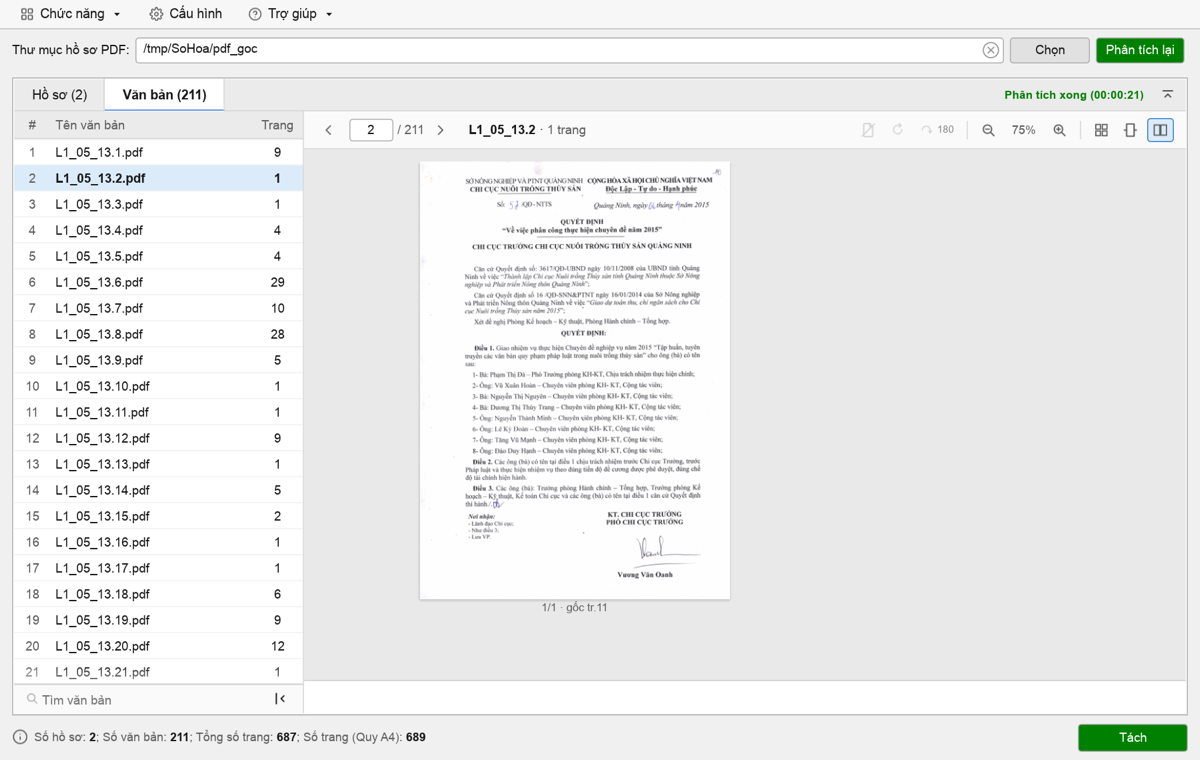
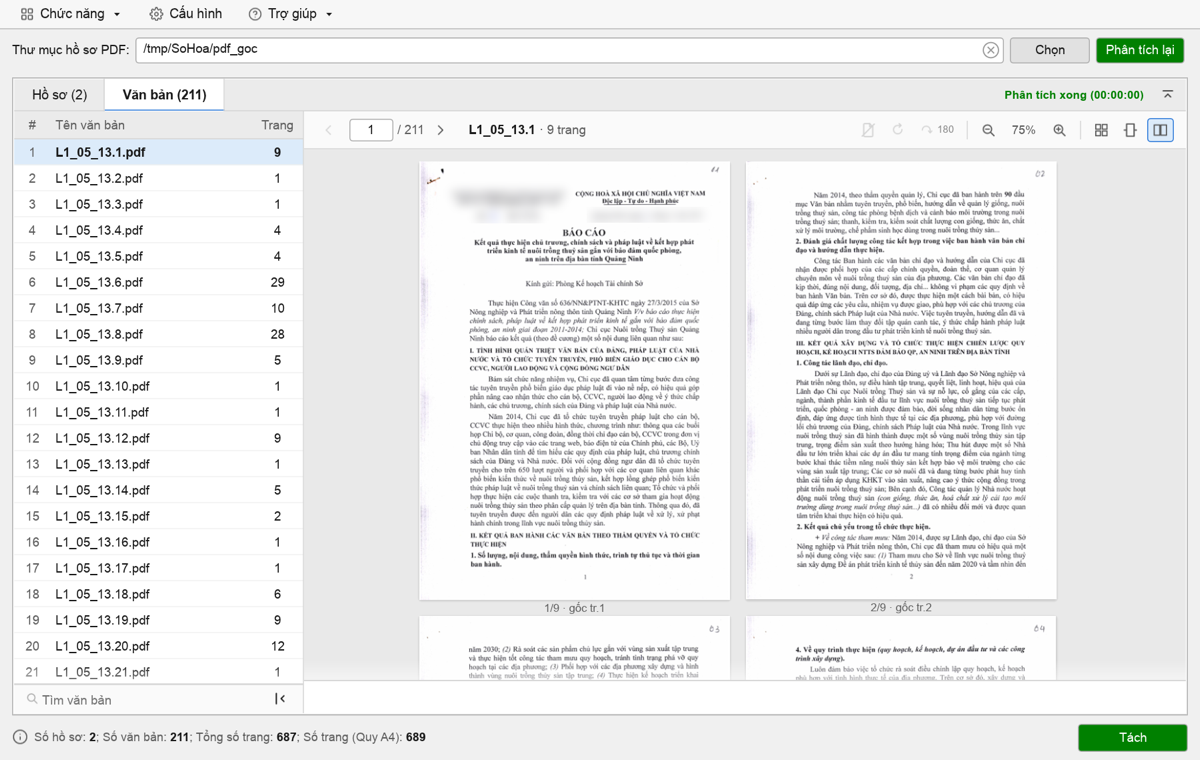
docs: ảnh Văn bản nhiều trang (làm mờ cơ quan ban hành), Cấu hình đủ 3 tab

diff --git a/dema4_rs/src/gui.rs b/dema4_rs/src/gui.rs
@@ -1950,6 +1950,12 @@ mod tests {
         harness.state_mut().hop_cau_hinh = Some(hop);
         harness.run_steps(3);
         harness.render().unwrap().save(thu_muc_anh.join("tach_4_cau_hinh_dem.png")).unwrap();
+        // Hộp Cấu hình với giá trị mặc định, đủ 3 tab (ảnh README)
+        for (ten, tab) in [("cau_hinh_dem", crate::gui_tach::hop_cau_hinh::TabCauHinh::Dem), ("cau_hinh_tach", crate::gui_tach::hop_cau_hinh::TabCauHinh::Tach), ("cau_hinh_muc_luc", crate::gui_tach::hop_cau_hinh::TabCauHinh::MucLuc)] {
+            harness.state_mut().hop_cau_hinh = Some(crate::gui_tach::hop_cau_hinh::HopCauHinh::moi(&cfg, tab));
+            harness.run_steps(3);
+            harness.render().unwrap().save(thu_muc_anh.join(format!("{ten}.png"))).unwrap();
+        }
         harness.state_mut().hop_cau_hinh = None;
         harness.state_mut().tro_giup = Some(crate::tro_giup::HopTroGiup::HuongDan(crate::tro_giup::TabHuongDan::Tach));
         harness.run_steps(3);
@@ -1957,7 +1963,7 @@ mod tests {
         // Tab Văn bản: Lưới, 1 trang 100 %, 2 trang 75 %, hộp phóng to
         harness.state_mut().tro_giup = None;
         harness.state_mut().tach.tab = crate::gui_tach::Tab::VanBan;
-        harness.state_mut().tach.vb = 1;
+        harness.state_mut().tach.vb = std::env::var("DEMA4_VB").ok().and_then(|v| v.parse().ok()).unwrap_or(1);
         for (ten, che_do, ty_le) in [("tach_6_vb_luoi", crate::cau_hinh::CheDoVb::Luoi, 100), ("tach_7_vb_1trang", crate::cau_hinh::CheDoVb::MotTrang, 100), ("tach_8_vb_2trang", crate::cau_hinh::CheDoVb::HaiTrang, 75)] {
             harness.state_mut().cfg.che_do_vb = che_do;
             harness.state_mut().cfg.ty_le_vb = ty_le;

diff --git a/README.md b/README.md
@@ -56,7 +56,11 @@ Nhãn, cache và log nằm trong thư mục ẩn `.sm-dema4/` cạnh file chạy
 
 Menu **Cấu hình** (3 tab Đếm trang A4 / Tách PDF / Sinh mục lục), lưu ở file ẩn `.dema4_saomai.cfg` cạnh file chạy.
 
+![Cấu hình Đếm trang A4](docs/anh/cau-hinh-dem.png)
+
 ![Cấu hình Tách PDF](docs/anh/cau-hinh-tach.png)
+
+![Cấu hình Sinh mục lục](docs/anh/cau-hinh-muc-luc.png)
 
 ## Dòng lệnh
 
